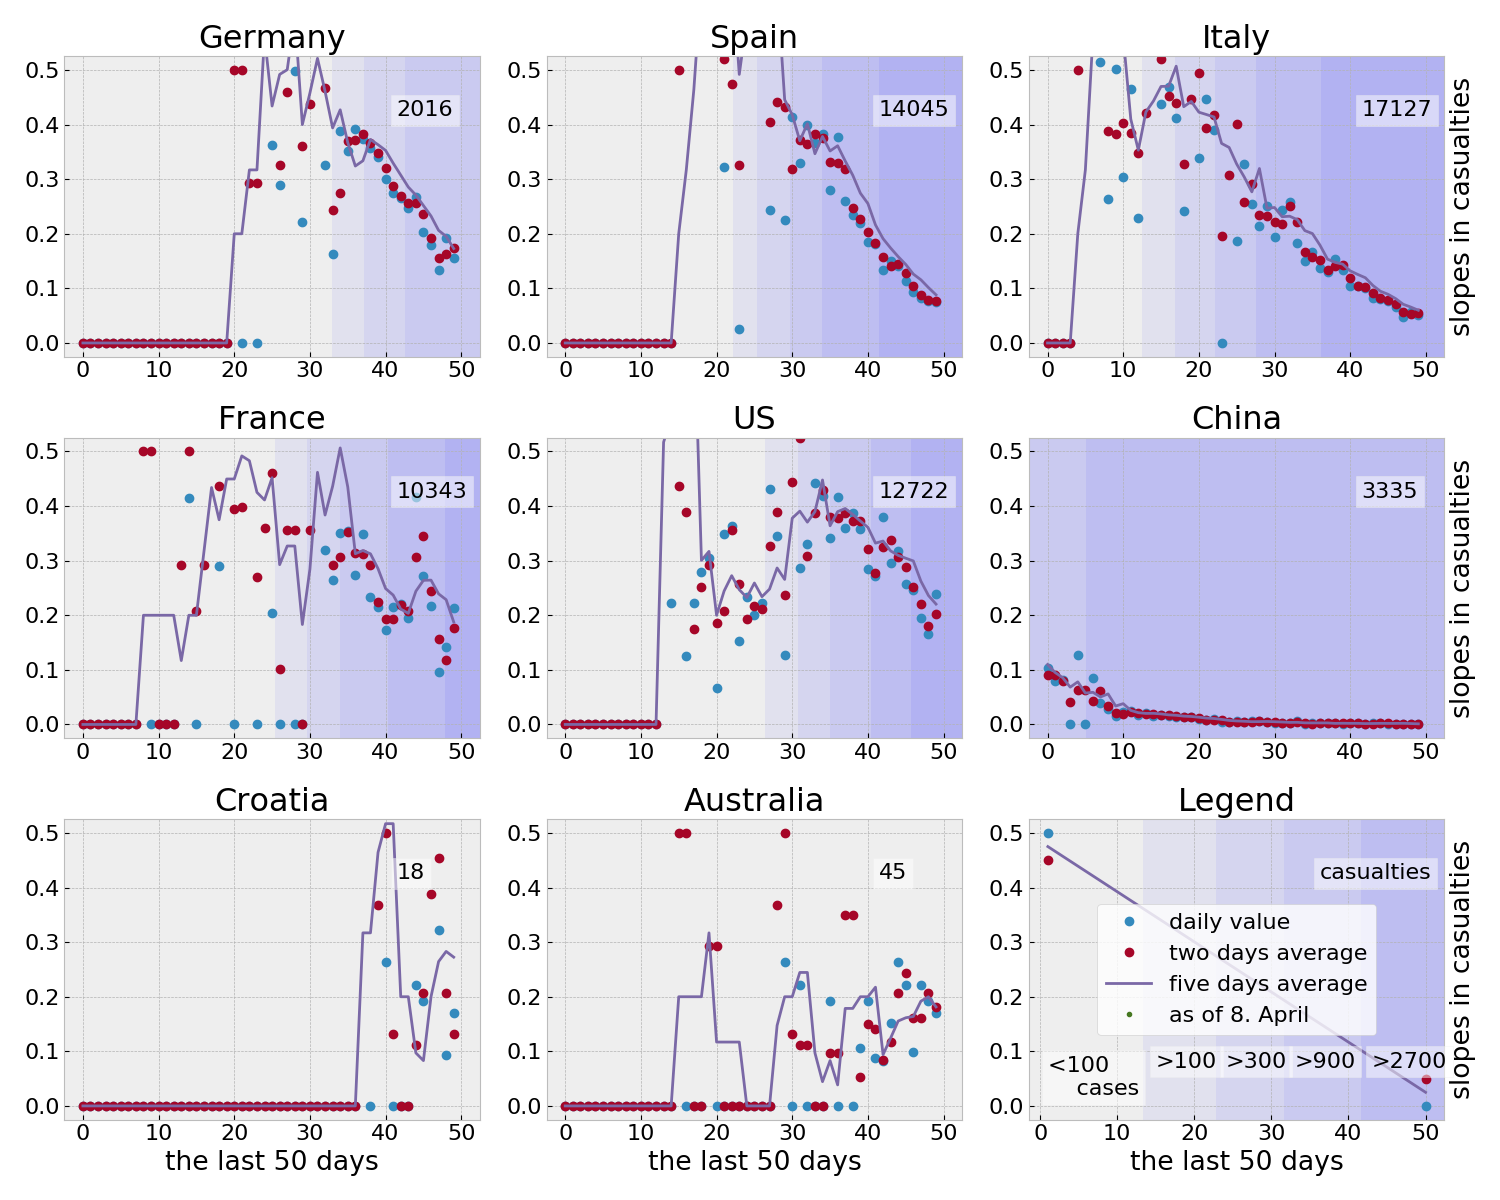
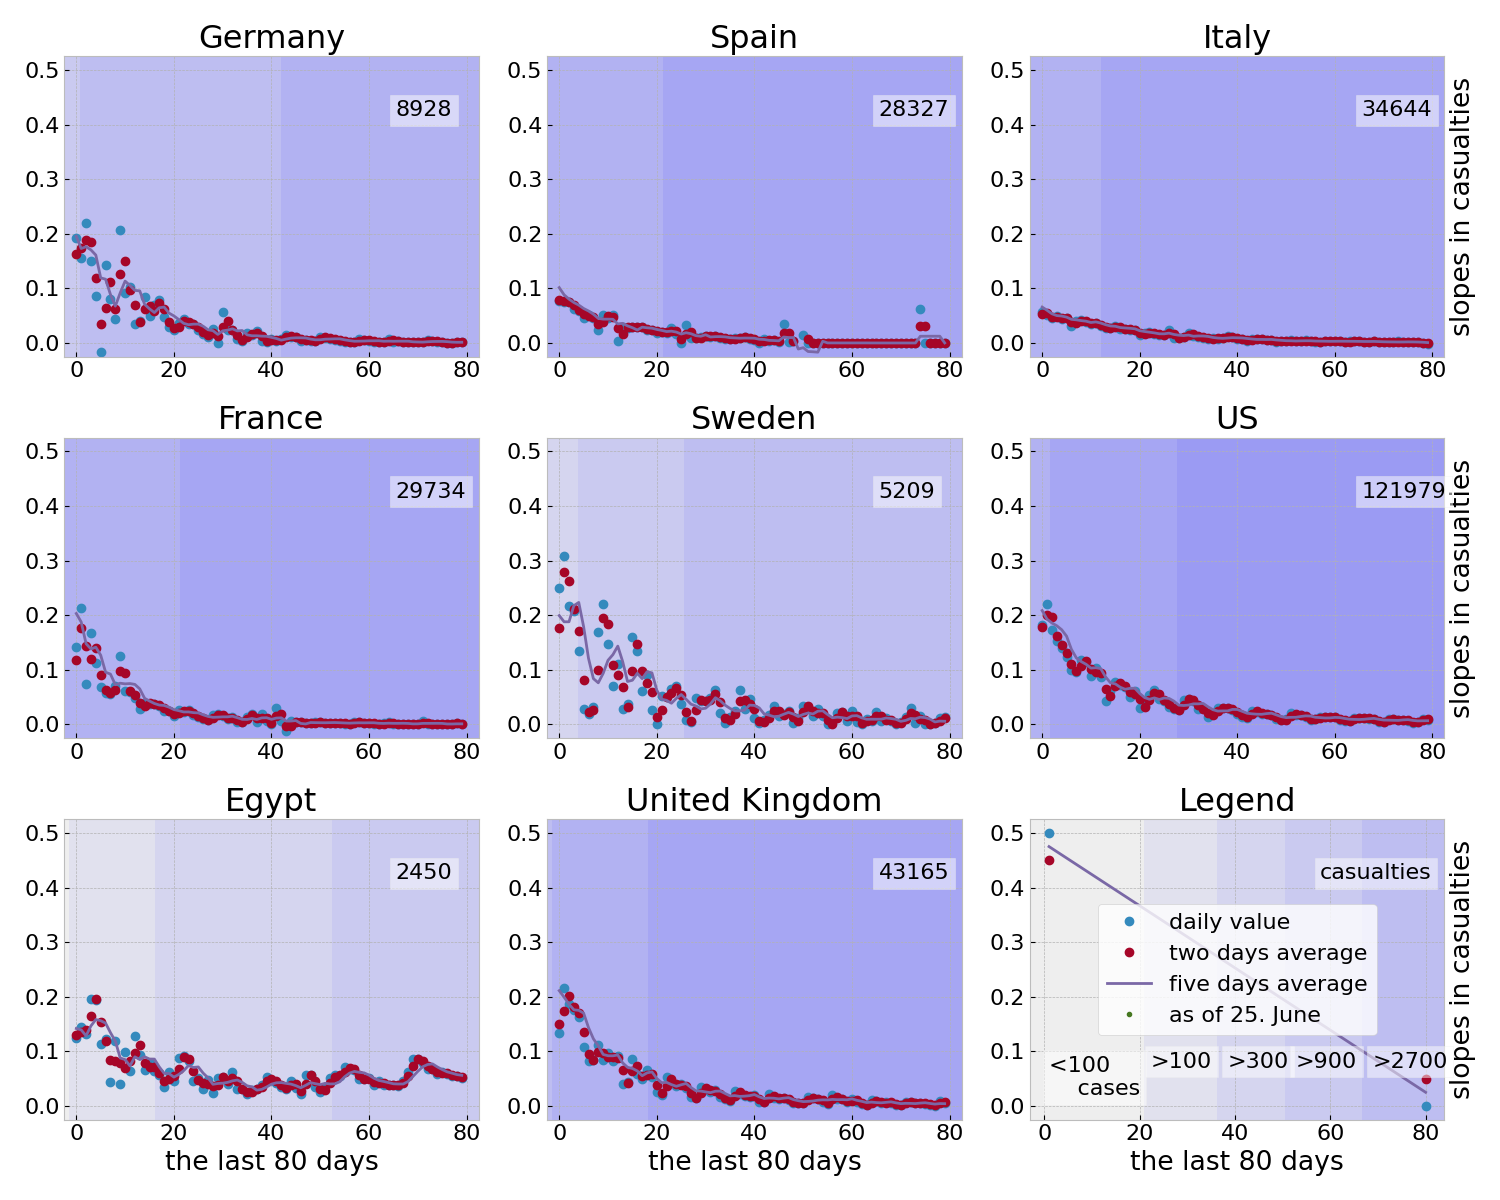
check last 30 days

diff --git a/ghc_helpers.py b/ghc_helpers.py
@@ -36,7 +36,8 @@ def getxranges(datarray, init=100, factor=3):
     return idxl
 
 
-def plotlogslops(pddf, countryl, ncols=3, fignum=100, dpi=100, figfile=None):
+def plotlogslops(pddf, countryl, ncols=3, fignum=100, dpi=100,
+                 ndays=50, figfile=None):
     ncnt = len(countryl)
     nrows = np.int(np.ceil(ncnt/ncols))
     cfig = plt.figure(fignum, figsize=(5*ncols, 4*nrows), dpi=dpi)
@@ -52,30 +53,30 @@ def plotlogslops(pddf, countryl, ncols=3, fignum=100, dpi=100, figfile=None):
             gda = gda + np.array(gdll[2:])
 
         slopes, tdavrg, fdavrg = getthelogslope(gda)
-        ax.plot(slopes[-50:], 'o', label='daily value')
-        ax.plot(tdavrg[-50:], 'o', label='two days average')
-        ax.plot(fdavrg[-50:], label='five days average')
+        ax.plot(slopes[-ndays:], 'o', label='daily value')
+        ax.plot(tdavrg[-ndays:], 'o', label='two days average')
+        ax.plot(fdavrg[-ndays:], label='five days average')
 
-        ax.set_xlim(xmin=-2.45, xmax=52.45)
+        ax.set_xlim(xmin=-2.45, xmax=ndays+2.45)
         if mycountry == 'China':  # or mycountry == 'Korea, South'):
             ymax, ymin = .525, -.025
         else:
             ymax, ymin = .525, -.025
         ax.set_ylim(ymin=ymin, ymax=ymax)
 
-        xranges = getxranges(gda[-50:], init=100, factor=3)
-        xranges.append(51)
+        xranges = getxranges(gda[-ndays:], init=100, factor=3)
+        xranges.append(ndays+1)
         lstxmin = 0
         for kk, xrng in enumerate(xranges):
-            if xrng == 51:
+            if xrng == ndays+1:
                 xmax = 1
             else:
-                xmax = .975*(xrng-1)/50
+                xmax = .975*(xrng-1)/ndays
             plt.axhspan(-.05, ymax, xmin=lstxmin, xmax=xmax, alpha=alphas[kk])
             lstxmin = xmax
 
         if idx >= (nrows-1)*ncols:
-            ax.set_xlabel('the last 50 days')
+            ax.set_xlabel('the last {0} days'.format(ndays))
         if np.mod(idx+1, ncols) == 0:
             ax.set_ylabel('slopes in casualties')
             ax.yaxis.set_label_position("right")
@@ -84,15 +85,15 @@ def plotlogslops(pddf, countryl, ncols=3, fignum=100, dpi=100, figfile=None):
                 bbox={'facecolor': 'white', 'alpha': .5})
         ax.set_title(mycountry)
     ax = cfig.add_subplot(nrows, ncols, idx+2)
-    ax.plot([1, 50], [.5, 0], 'o', label='daily value')
-    ax.plot([1, 50], [.45, .05], 'o', label='two days average')
-    ax.plot([1, 50], [.475, .025], label='five days average')
+    ax.plot([1, ndays], [.5, 0], 'o', label='daily value')
+    ax.plot([1, ndays], [.45, .05], 'o', label='two days average')
+    ax.plot([1, ndays], [.475, .025], label='five days average')
     ax.plot(np.NaN, '.', label=today)
     ymax, ymin = .525, -.025
     ax.set_ylim(ymin=ymin, ymax=ymax)
     # ax.axis('off')
     ax.legend(loc='center', facecolor='white')
-    ax.set_xlabel('the last 50 days')
+    ax.set_xlabel('the last {0} days'.format(ndays))
     ax.set_ylabel('slopes in casualties')
     ax.yaxis.set_label_position("right")
     plt.axhspan(-.025, .525, xmin=0.275, xmax=.45, alpha=.05)
@@ -103,10 +104,72 @@ def plotlogslops(pddf, countryl, ncols=3, fignum=100, dpi=100, figfile=None):
     ax.text(.7, .8, 'casualties', transform=ax.transAxes,
             bbox=bbstl)
     ax.text(1, 0.02, '<100 \n    cases', bbox=bbstl)
-    ax.text(15, 0.07, '>100', bbox=bbstl)
-    ax.text(24, 0.07, '>300', bbox=bbstl)
-    ax.text(33, 0.07, '>900', bbox=bbstl)
-    ax.text(43, 0.07, '>2700', bbox=bbstl)
+    ax.text(14/50*ndays, 0.07, '>100', bbox=bbstl)
+    ax.text(24/50*ndays, 0.07, '>300', bbox=bbstl)
+    ax.text(33/50*ndays, 0.07, '>900', bbox=bbstl)
+    ax.text(43/50*ndays, 0.07, '>2700', bbox=bbstl)
+    ax.set_title('Legend')
+    plt.tight_layout()
+    if figfile is not None:
+        plt.savefig(figfile)
+    return cfig
+
+
+def lmonthslops(pddf, countryl, ncols=3, fignum=100, dpi=100,
+                ndays=40, plotdays=30, figfile=None):
+    ncnt = len(countryl)
+    nrows = np.int(np.ceil(ncnt/ncols))
+    cfig = plt.figure(fignum, figsize=(5*ncols, 4*nrows), dpi=dpi)
+    for idx, mycountry in enumerate(countryl):
+        ax = cfig.add_subplot(nrows, ncols, idx+1)
+        mcdtwo = pddf[pddf['Country/Region'] == mycountry]
+        # sick of pandas? -- convert the data frame to a numpy array
+        gdl = mcdtwo.values.tolist()
+        # only the numerical values
+        gda = np.array(gdl[0][2:])
+        for gdll in gdl[1:]:  # sum up if there are more regions per country
+            gda = gda + np.array(gdll[2:])
+
+        ggda = gda[-ndays:] - gda[-ndays-1]
+        slopes, tdavrg, fdavrg = getthelogslope(ggda)
+        ax.plot(slopes[-plotdays:], 'o', label='daily value')
+        ax.plot(tdavrg[-plotdays:], 'o', label='two days average')
+        ax.plot(fdavrg[-plotdays:], label='five days average')
+
+        ax.set_xlim(xmin=-2.45, xmax=plotdays+2.45)
+        ymax, ymin = .125, -.025
+        ax.set_ylim(ymin=ymin, ymax=ymax)
+        ax.set_yticks([0.0, 0.05, 0.1])
+
+        if idx >= (nrows-1)*ncols:
+            ax.set_xlabel('the last {0} days'.format(plotdays))
+        if np.mod(idx+1, ncols) == 0:
+            ax.set_ylabel('slopes in casualties')
+            ax.yaxis.set_label_position("right")
+
+        ax.text(.8, .8, '{0}'.format(gda[-1]-gda[-plotdays-1]),
+                transform=ax.transAxes,
+                bbox={'facecolor': 'white', 'alpha': .5})
+        ax.set_title(mycountry)
+    ax = cfig.add_subplot(nrows, ncols, idx+2)
+    ax.plot([1, plotdays], [.5, 0], 'o', label='daily value')
+    ax.plot([1, plotdays], [.45, .05], 'o', label='two days average')
+    ax.plot([1, plotdays], [.475, .025], label='five days average')
+    ax.plot(np.NaN, '.', label=today)
+    ymax, ymin = .525, -.025
+    ax.set_ylim(ymin=ymin, ymax=ymax)
+    # ax.axis('off')
+    ax.legend(loc='center', facecolor='white')
+    ax.set_xlabel('the last {0} days'.format(plotdays))
+    ax.set_ylabel('slopes in casualties')
+    ax.yaxis.set_label_position("right")
+    plt.axhspan(-.025, .525, xmin=0.275, xmax=.45, alpha=.05)
+    plt.axhspan(-.025, .525, xmin=0.45, xmax=.615, alpha=.1)
+    plt.axhspan(-.025, .525, xmin=0.615, xmax=.8, alpha=.15)
+    plt.axhspan(-.025, .525, xmin=0.8, xmax=1., alpha=.2)
+    bbstl = {'facecolor': 'white', 'alpha': .5}
+    ax.text(.7, .8, 'casualties', transform=ax.transAxes,
+            bbox=bbstl)
     ax.set_title('Legend')
     plt.tight_layout()
     if figfile is not None:

diff --git a/deathgrowthrates.py b/deathgrowthrates.py
@@ -2,12 +2,13 @@ import numpy as np
 import pandas as pd
 import matplotlib.pyplot as plt
 import matplotlib
-from ghc_helpers import plotlogslops, getthelogslope
+from ghc_helpers import plotlogslops, getthelogslope, lmonthslops
 
 
 font = {'family': 'normal',
         # 'weight': 'bold',
         'size': 16}
+ndays = 80
 
 matplotlib.rc('font', **font)
 
@@ -19,25 +20,32 @@ deaths = pd.read_csv(path)
 
 somecntrl = ['Argentina', 'Australia', 'Austria',
              'Brazil', 'China', 'Croatia',
-             'Denmark', 'Egypt', 'India',
-             'Korea, South', 'Netherlands', 'Russia',
-             'Sweden', 'Switzerland', 'United Kingdom']
+             'Denmark', 'Egypt', 'Greece',
+             'India', 'Netherlands', 'Russia',
+             'Switzerland', 'United Kingdom']
 
-tworands = np.random.randint(0, 14, (3, ))
+tworands = np.random.randint(0, 14, (2, ))
 guestone = somecntrl[tworands[0]]
 guesttwo = somecntrl[tworands[1]]
-guestthree = somecntrl[tworands[2]]
+# guestthree = somecntrl[tworands[2]]
 
-mycountryl = ['Germany', 'Spain', 'Italy', 'France', 'US']
+mycountryl = ['Germany', 'Spain', 'Italy', 'France', 'Sweden', 'US']
 
 somecntrl.extend(mycountryl)
 somecntrl.sort()
-mycountryl.extend([guestone, guesttwo, guestthree])
+# mycountryl.extend([guestone, guesttwo, guestthree])
+mycountryl.extend([guestone, guesttwo])
 
 dtwo = deaths.copy()
 dtwo.drop(columns=['Lat', 'Long'], inplace=True)
-cfig = plotlogslops(dtwo, mycountryl, figfile='slopes-dsifc.png')
-ccfig = plotlogslops(dtwo, somecntrl, fignum=200, figfile='slopes-dsifc.pdf')
+cfig = plotlogslops(dtwo, mycountryl, figfile='slopes-dsifc.png', ndays=ndays)
+ccfig = plotlogslops(dtwo, somecntrl, fignum=200,
+                     figfile='slopes-dsifc.pdf', ndays=ndays)
+
+cfig = lmonthslops(dtwo, mycountryl, fignum=220,
+                   figfile='lmspls-dsifc.png', ndays=50)
+ccfig = lmonthslops(dtwo, somecntrl, fignum=230,
+                    figfile='lmspls-dsifc.pdf', ndays=50)
 # plt.show()
 
 # ## The plots of the example scenarios
